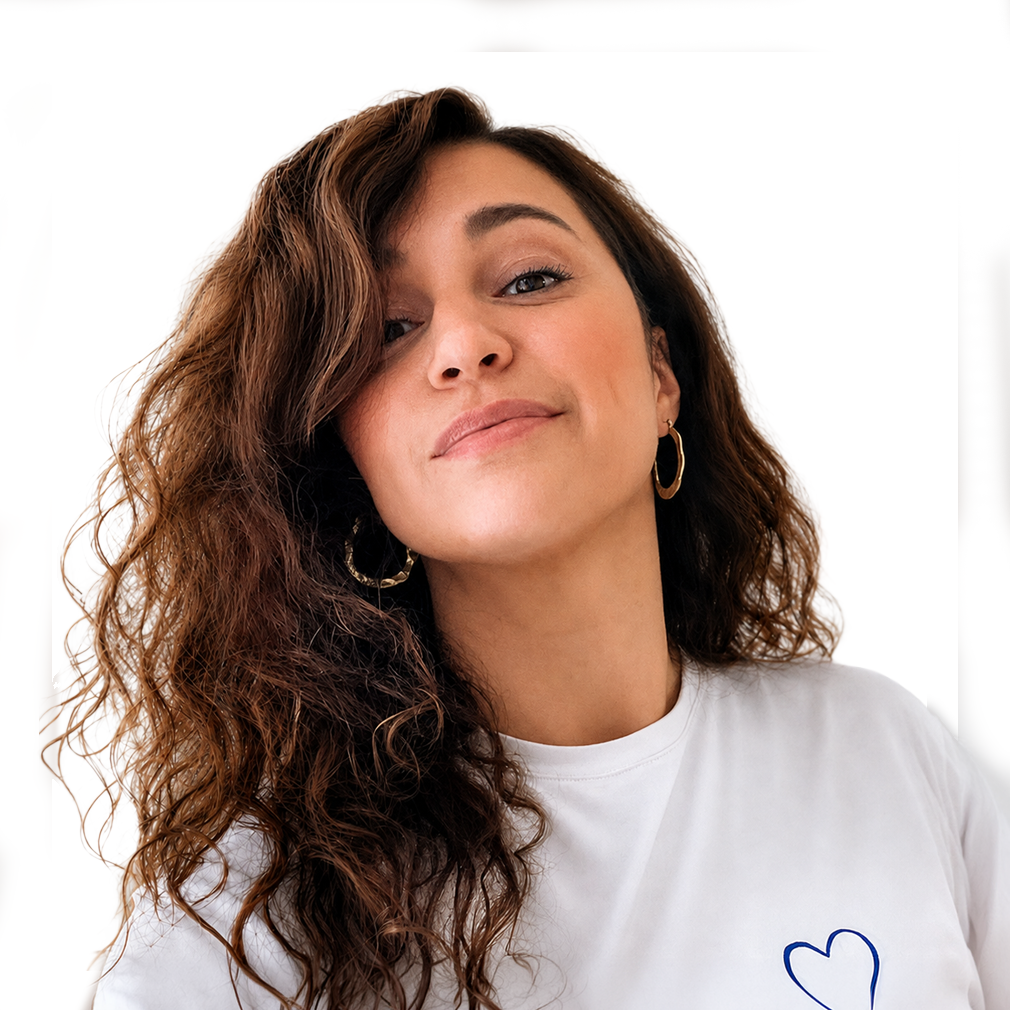
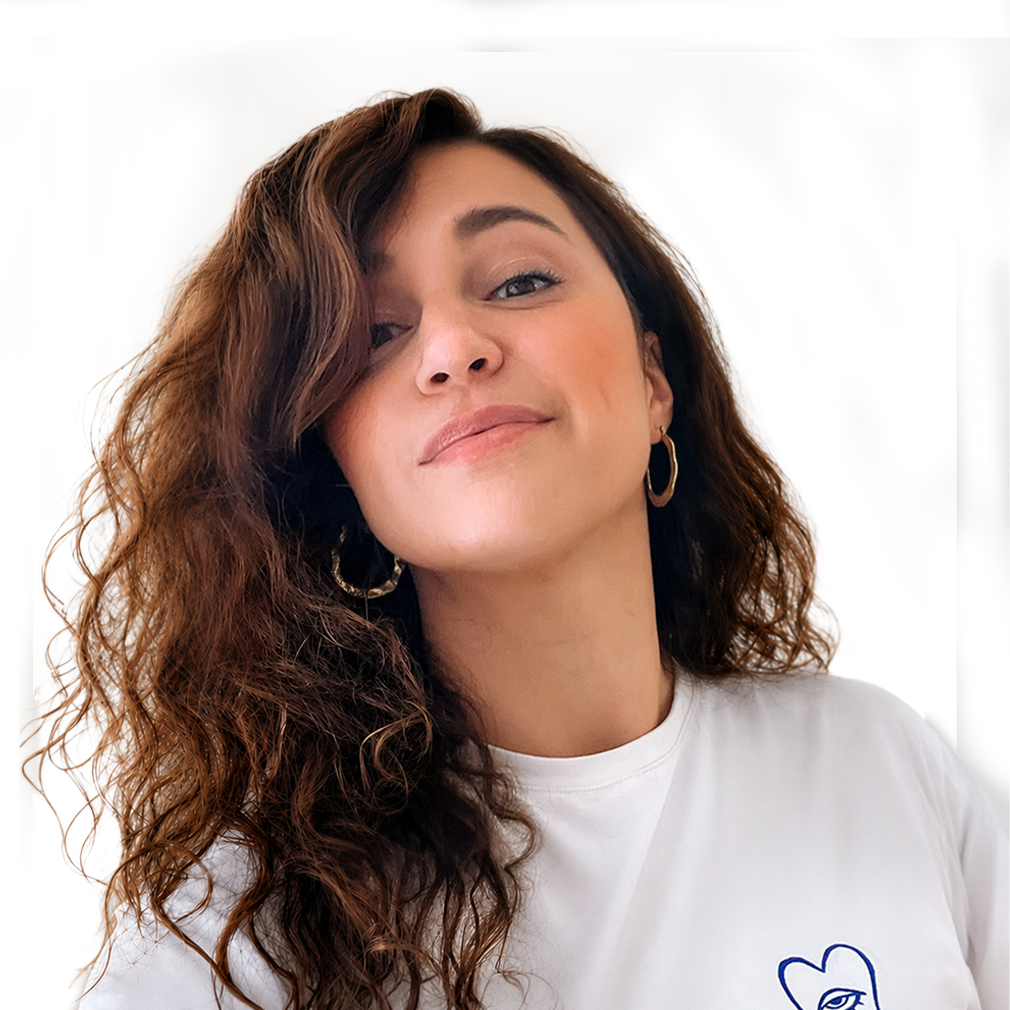
Update hero badges and about portrait image.

diff --git a/index.html b/index.html
@@ -2490,8 +2490,8 @@
     <section id="hero" class="flex flex-col items-stretch">
         <ul class="hero-badges" role="list" aria-label="Profile summary">
             <li class="hero-badge">10+ Years</li>
-            <li class="hero-badge hero-badge--domains">POS · Payments · B2B SaaS · Internal Tools</li>
-            <li class="hero-badge">MSc Computer Engineering</li>
+            <li class="hero-badge hero-badge--domains">POS  ·  Payments  ·  B2B SaaS  ·  Logistics  ·  Enterprise</li>
+            <li class="hero-badge">MSc Computer Engineering + BDes</li>
             <li class="hero-badge hero-badge--flag">
                 <span class="hero-badge-flag" aria-hidden="true">
                     <svg width="18" height="12" viewBox="0 0 18 12" xmlns="http://www.w3.org/2000/svg" focusable="false">
